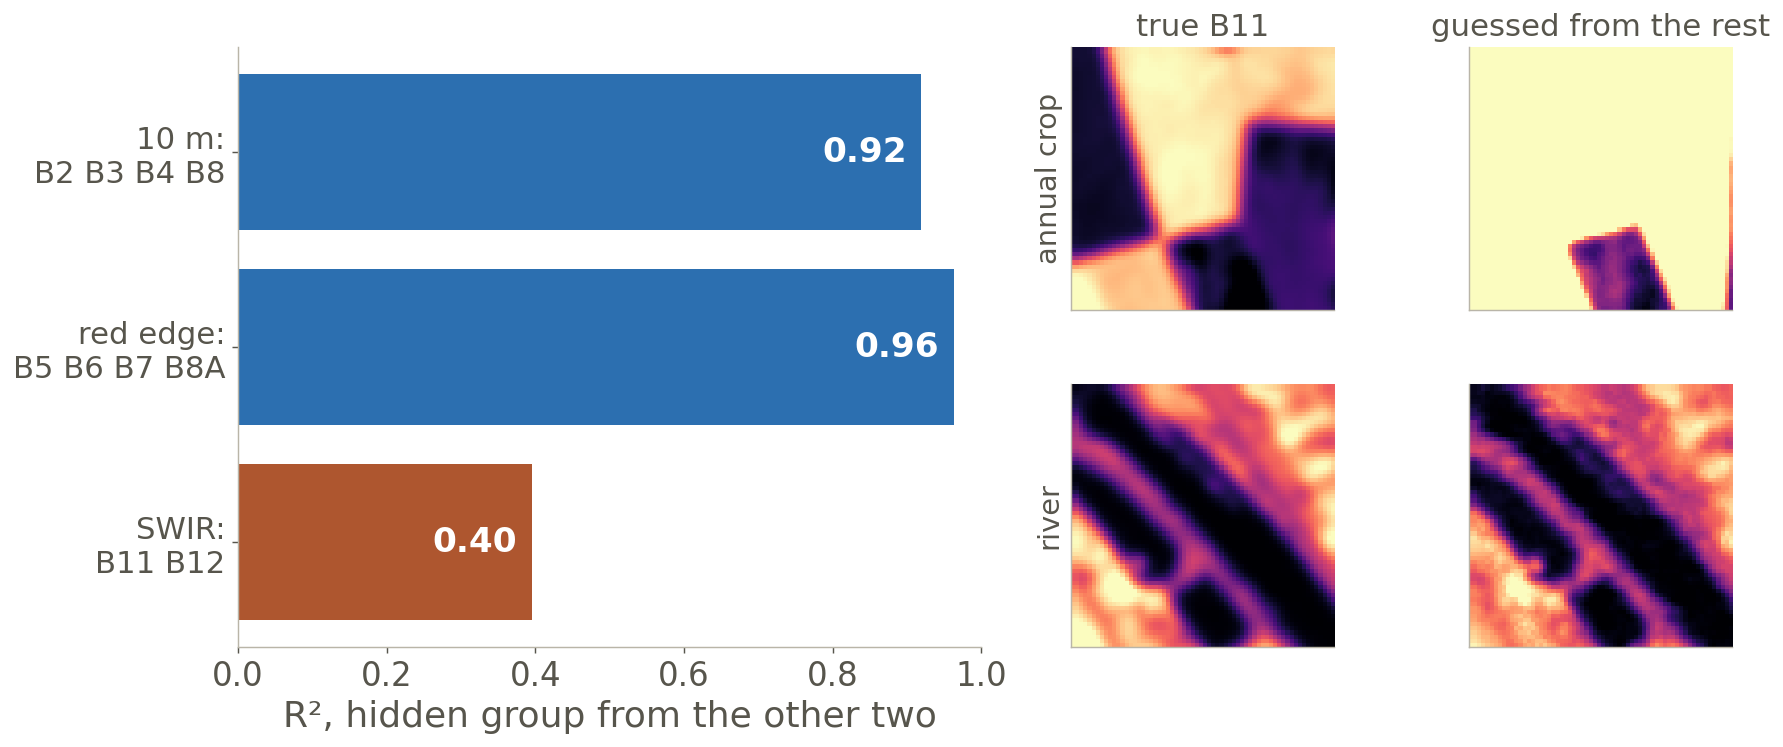
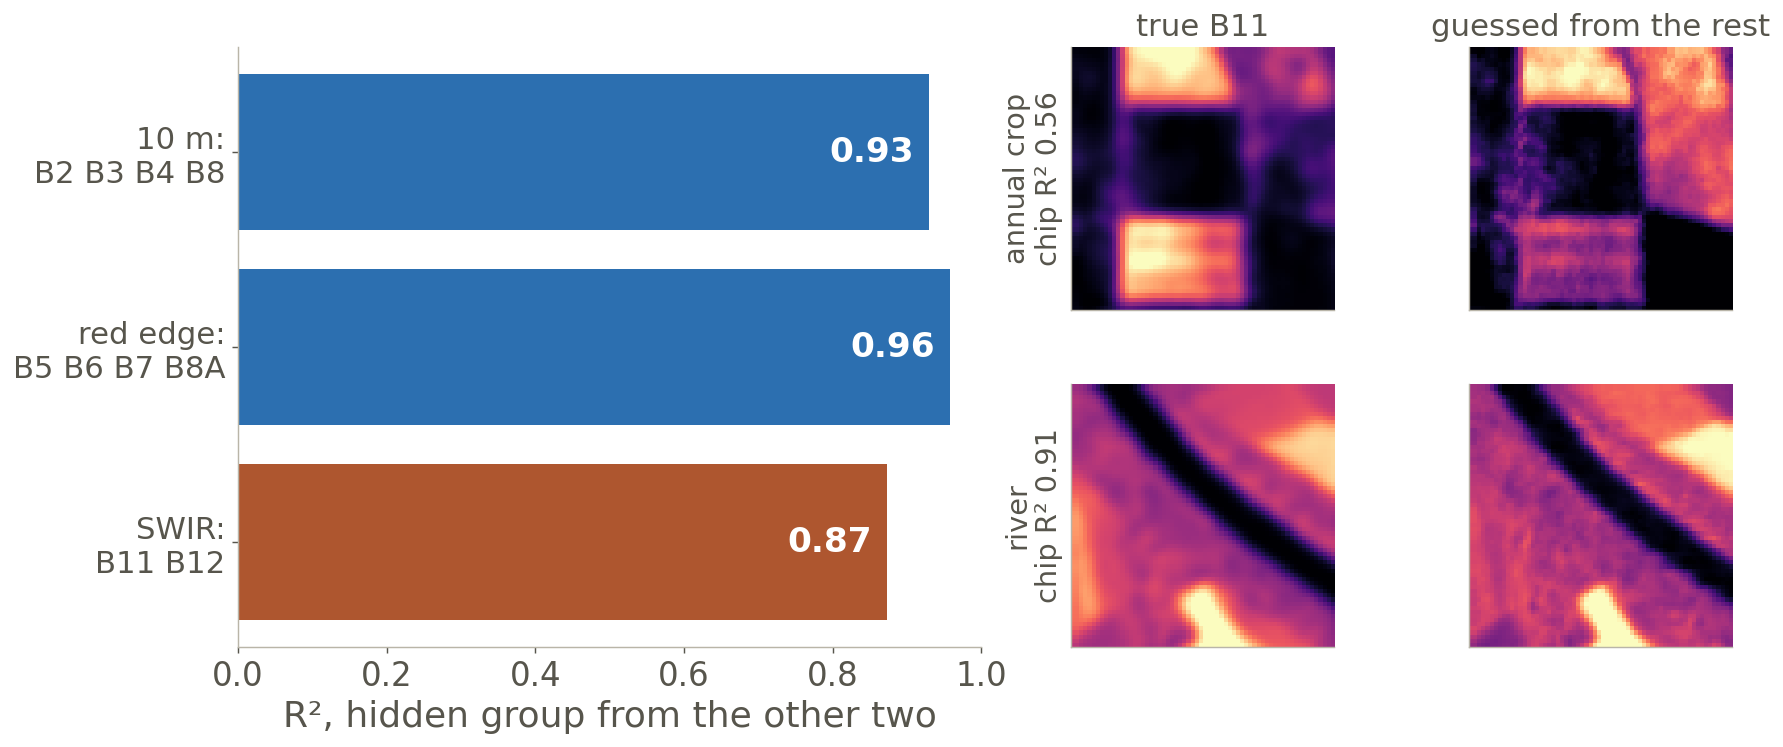
Week 7 deck: band-group and soil-moisture slides restated with measured results
- Band groups (slide 36, fig-w7-spectral.png): redone on all pixels of the
  4,000 training and 1,000 test chips; R^2 0.93 (10 m), 0.96 (red edge),
  0.87 (shortwave infrared), SWIR hardest within annual crop, forest and
  pasture (0.58-0.63); the 10-chip pilot's 0.40 was a small-sample artefact
  (notes); moisture stays a hypothesis for where the residual is largest.
  Figure regenerated from the full sample (class-median test chips on the
  right)
- Soil moisture (slide 8): the dashed sketch replaced by the measured curve,
  ERA5 top-layer soil moisture at 0.25 deg with the same fill and 8 x 8
  patches (0.52 / 0.53 / 0.57 / 0.66 / 0.87 at 10-90 % hidden, against
  0.54 / 0.56 / 0.61 / 0.73 / 0.95 for EuroSAT); title, lead sentence,
  panel labels, notes and foot reworded to say what was measured; no
  remaining claim that random patches on soil moisture are solved by
  interpolation

diff --git a/slides/week07.html b/slides/week07.html
@@ -318,10 +318,10 @@
 
 <section class="slide xl">
   <p class="kicker">Part 2 · Your field · 2 min</p>
-  <h2>Soil moisture is smoother than any EuroSAT chip — so mask more? No: mask differently</h2>
-  <p class="small" style="margin:-1.6vh 0 1.4vh;color:var(--ink-2);line-height:1.45">At 9–36 km soil moisture is interpolation-friendly: random patches teach copying. The information is in time and in the drivers.</p>
+  <h2>Soil moisture at 0.25° is only a little easier to fill than EuroSAT — measure before you mask</h2>
+  <p class="small" style="margin:-1.6vh 0 1.4vh;color:var(--ink-2);line-height:1.45">Measured with the same fill and 8 × 8 patches, ERA5 soil moisture at 0.25° fills only a little better than a EuroSAT chip: 0.66 against 0.73 at 75% hidden.</p>
   <div class="figure" style="flex:0 0 auto;margin:0 0 .4vh">
-    <svg viewBox="0 0 900 250" role="img" aria-label="Left: the no-learning fill error against the share of patches hidden. The measured EuroSAT curve rises from 0.54 at 10% to 0.73 at 75% and 0.95 at 90%; the tiny MAE sits near 0.30 until 50%, 0.40 at 75%, 0.78 at 90%; a dashed sketch for a 36-kilometre soil-moisture field stays far lower until about 90%, labelled not measured yet. Right: four boxes — block masking, temporal masking, variable masking, forecast target — each naming the models that use it." style="width:min(98%,1150px)">
+    <svg viewBox="0 0 900 250" role="img" aria-label="Left: the no-learning fill error against the share of patches hidden. The measured EuroSAT curve rises from 0.54 at 10% to 0.73 at 75% and 0.95 at 90%; the tiny MAE sits near 0.30 until 50%, 0.40 at 75%, 0.78 at 90%; ERA5 top-layer soil moisture at 0.25°, measured with the same fill and 8 by 8 patches, runs just below the EuroSAT curve: 0.52 at 10%, 0.66 at 75%, 0.87 at 90%. Right: four boxes — block masking, temporal masking, variable masking, forecast target — each naming the models that use it." style="width:min(98%,1150px)">
       <text x="60" y="12" font-size="10.5" fill="var(--muted)" font-weight="700">no-learning fill error (NMSE) vs share hidden</text>
       <line x1="60" y1="20" x2="400" y2="20" stroke="var(--muted)" stroke-width="1" stroke-dasharray="4 3"/><text x="398" y="16" font-size="9" fill="var(--muted)" text-anchor="end">paint the mean = 1.0</text>
       <line x1="60" y1="200" x2="400" y2="200" stroke="currentColor" stroke-width="1"/><line x1="60" y1="20" x2="60" y2="200" stroke="currentColor" stroke-width="1"/>
@@ -329,10 +329,10 @@
       <g font-size="9" fill="var(--muted)" text-anchor="end"><text x="55" y="203">0</text><text x="55" y="113">0.5</text><text x="55" y="24">1</text></g>
       <polyline points="94.0,102.8 145.0,99.2 230.0,90.2 315.0,68.6 366.0,29.0" fill="none" stroke="currentColor" stroke-width="1.6"/><circle cx="94.0" cy="102.8" r="3" fill="currentColor"/><circle cx="145.0" cy="99.2" r="3" fill="currentColor"/><circle cx="230.0" cy="90.2" r="3" fill="currentColor"/><circle cx="315.0" cy="68.6" r="3" fill="currentColor"/><circle cx="366.0" cy="29.0" r="3" fill="currentColor"/>
       <polyline points="94.0,146.0 145.0,146.0 230.0,146.0 315.0,128.0 366.0,59.6" fill="none" stroke="#2c6fb0" stroke-width="1.6"/><circle cx="94.0" cy="146.0" r="3" fill="#2c6fb0"/><circle cx="145.0" cy="146.0" r="3" fill="#2c6fb0"/><circle cx="230.0" cy="146.0" r="3" fill="#2c6fb0"/><circle cx="315.0" cy="128.0" r="3" fill="#2c6fb0"/><circle cx="366.0" cy="59.6" r="3" fill="#2c6fb0"/>
-      <polyline points="94.0,173.0 145.0,169.4 230.0,160.4 315.0,137.0 366.0,74.0" fill="none" stroke="var(--accent)" stroke-width="1.6" stroke-dasharray="5 3"/>
+      <polyline points="94.0,107.2 145.0,105.0 230.0,96.9 315.0,81.2 366.0,43.4" fill="none" stroke="var(--accent)" stroke-width="1.6"/><circle cx="94.0" cy="107.2" r="3" fill="var(--accent)"/><circle cx="145.0" cy="105.0" r="3" fill="var(--accent)"/><circle cx="230.0" cy="96.9" r="3" fill="var(--accent)"/><circle cx="315.0" cy="81.2" r="3" fill="var(--accent)"/><circle cx="366.0" cy="43.4" r="3" fill="var(--accent)"/>
       <text x="96" y="80" font-size="9.5" fill="currentColor">EuroSAT fill, measured (slide 7)</text>
-      <text x="150" y="140" font-size="9.5" fill="#2c6fb0">tiny MAE on EuroSAT</text>
-      <text x="96" y="190" font-size="9.5" fill="var(--accent)" font-weight="700">soil moisture at 36 km? a sketch — nobody has measured it</text>
+      <text x="150" y="164" font-size="9.5" fill="#2c6fb0">tiny MAE on EuroSAT</text>
+      <text x="96" y="124" font-size="9.5" fill="var(--accent)" font-weight="700">ERA5 soil moisture, 0.25°, measured</text><text x="96" y="137" font-size="9" fill="var(--accent)">8 × 8 patches ≈ 200 km</text>
       <text x="440" y="12" font-size="10.5" fill="var(--muted)" font-weight="700">mask differently — what the field’s models do</text>
       <g stroke="var(--accent)" stroke-width="1.2" fill="var(--wash)"><rect x="440" y="20" width="222" height="86" rx="6"/><rect x="670" y="20" width="222" height="86" rx="6"/><rect x="440" y="116" width="222" height="86" rx="6"/><rect x="670" y="116" width="222" height="86" rx="6"/></g>
       <g font-size="11" font-weight="700" fill="var(--accent)"><text x="450" y="38">Block masking</text><text x="680" y="38">Temporal masking</text><text x="450" y="134">Variable masking</text><text x="680" y="134">Forecast target</text></g>
@@ -340,16 +340,16 @@
         <text x="450" y="54">one big hole instead of scattered patches:</text><text x="450" y="66">interpolation cannot fill it</text><text x="450" y="82" fill="var(--muted)">I-JEPA · Galileo (long-span masks)</text>
         <text x="680" y="54">hide whole dates; predict the drydown</text><text x="680" y="66">from the rest of the time series</text><text x="680" y="82" fill="var(--muted)">SatMAE · masked lookback, J. Hydrol. 2025</text>
         <text x="450" y="150">hide soil moisture, keep rain, air</text><text x="450" y="162">temperature, NDVI — learn the water balance</text><text x="450" y="178" fill="var(--muted)">KG-VSF driver → response · OlmoEarth</text>
-        <text x="680" y="150">half of today + yesterday → tomorrow;</text><text x="680" y="162">reconstruction alone is too easy</text><text x="680" y="178" fill="var(--muted)">Prithvi-WxC: 50% masked + Δt</text>
+        <text x="680" y="150">half of today + yesterday → tomorrow;</text><text x="680" y="162">masked reconstruction plus a forecast</text><text x="680" y="178" fill="var(--muted)">Prithvi-WxC: 50% masked + Δt</text>
       </g>
-      <text x="440" y="224" font-size="9.5" fill="var(--muted)">ratio follows redundancy — images 75%, video 90% (Feichtenhofer et al. 2022)</text><text x="440" y="238" font-size="9.5" fill="var(--muted)">scale matters — 36 km is smooth, 30 m SMAP-HydroBlocks is not: measure before choosing</text>
+      <text x="440" y="224" font-size="9.5" fill="var(--muted)">ratio follows redundancy — images 75%, video 90% (Feichtenhofer et al. 2022)</text><text x="440" y="238" font-size="9.5" fill="var(--muted)">scale: measure the curve for your own data and patch size before choosing a mask</text>
     </svg>
   </div>
   <div class="gloss">
     <span><b>redundancy</b> — how well a hidden value is predicted by its neighbours. <b>block mask</b> — one contiguous hidden region instead of scattered patches.</span>
   </div>
-  <div class="foot"><span>Evidence: video MAE optimum 90% (Feichtenhofer 2022) · Enki rebuilds SST with most pixels hidden (Prochaska 2023) · Baguan: plain MAE can hurt a forecaster (2025) · StefaLand masks attribute/time-series tokens (2025) · ST-Transformer: self-supervised SMAP 1 km imputation, no ratio study (2023) · IGARSS 2026: Prithvi ≈ hand-crafted on 113 ISMN sites · test the target: physical units beat anomalies in an S2S ViT (arXiv 2610.07060) · the dashed curve is an unwritten paper</span></div>
-  <aside class="notes">2 min, the previous slide applied to the field most of you work in. Left: the EuroSAT fill curve you just saw, and a dashed sketch of what a 36-kilometre soil-moisture map would do — stay low until nearly everything is hidden, because the field is smooth. Nobody has measured that curve; say so, it is a paper. If it looks like the sketch, random patches at 75% teach a model to copy its neighbours, and more masking only pushes it towards painting the climatology. Right: what the field's models did instead — block masks that interpolation cannot fill (I-JEPA, Galileo), hiding dates so the model learns the drydown (SatMAE, the J. Hydrol. 2025 masked lookback), hiding the variable so it learns the water balance from rain and temperature (KG-VSF, OlmoEarth), and Prithvi-WxC's answer for smooth atmospheric fields: 50% masked plus a forecast target. Two cautions: scale — 36 km is smooth, 30 m SMAP-HydroBlocks is not, so measure before choosing; and the target — an S2S soil-moisture ViT found physical units beat standardised anomalies, so even the obvious anomaly target has to be tested. The bullets are the evidence next door and at home; the honest one is IGARSS 2026, Prithvi embeddings adding nothing on 113 stations — exactly the kind of result the capstone rubric rewards. This slide is a Talk 2/3 question: what does your field's curve look like, and which mask follows?</aside>
+  <div class="foot"><span>Evidence: video MAE optimum 90% (Feichtenhofer 2022) · Enki rebuilds SST with most pixels hidden (Prochaska 2023) · Baguan: plain MAE can hurt a forecaster (2025) · StefaLand masks attribute/time-series tokens (2025) · ST-Transformer: self-supervised SMAP 1 km imputation, no ratio study (2023) · IGARSS 2026: Prithvi ≈ hand-crafted on 113 ISMN sites · test the target: physical units beat anomalies in an S2S ViT (arXiv 2610.07060) · soil moisture: ERA5 top layer, 0.25°, 288 fields of 2020, computed for this lecture</span></div>
+  <aside class="notes">2 min, the previous slide applied to the field most of you work in. Left: the EuroSAT fill curve you just saw, and the same no-learning fill measured on ERA5 top-layer soil moisture at 0.25° — 12 all-land windows of 64 × 64 cells, 24 dates of 2020, 288 fields, the same 8 × 8 patches and mask ratios. It runs only a little below EuroSAT: 0.52, 0.53, 0.57, 0.66 and 0.87 at 10, 25, 50, 75 and 90% hidden, against 0.54, 0.56, 0.61, 0.73 and 0.95. Cells one patch apart (8 cells) correlate at 0.45 in the soil-moisture windows and 0.40 in the chips. So at this patch size soil moisture is only modestly more redundant than EuroSAT: redundancy depends on the patch size relative to the correlation length — an 8-cell patch at 0.25° is about 200 km — not on the grid being coarse. It also varies from place to place: the window means at 75% range from 0.32 to 0.93. The supported message is the measurement itself: measure the curve for your own data and patch size before choosing a mask. Right: the masks the field's models use besides random patches — block masks that interpolation cannot fill (I-JEPA, Galileo), hiding dates so the model learns the drydown (SatMAE, the J. Hydrol. 2025 masked lookback), hiding the variable so it learns the water balance from rain and temperature (KG-VSF, OlmoEarth), and Prithvi-WxC's mixed objective: 50% masked plus a forecast target. Two cautions: scale — redundancy depends on patch size against correlation length, so the same field at another resolution or patch size can give another curve; and the target — an S2S soil-moisture ViT found physical units beat standardised anomalies, so even the obvious anomaly target has to be tested. The bullets are the evidence next door and at home; the honest one is IGARSS 2026, Prithvi embeddings adding nothing on 113 stations — exactly the kind of result the capstone rubric rewards. This slide is a Talk 2/3 question: what does your field's curve look like, and which mask follows?</aside>
 </section>
 
 <!-- 9 -->
@@ -1058,19 +1058,19 @@ for x in loader:
 
 <section class="slide xl">
   <p class="kicker">Skipped on 2 Nov · Earth masks · Hide a band group · measured</p>
-  <h2>In our test, red-edge bands are easy to guess from the rest; shortwave infrared is not</h2>
-  <p class="small" style="margin:-1.6vh 0 1.4vh;color:var(--ink-2);line-height:1.45">A group that is easy to guess makes a weak pretext task; SWIR, which tracks moisture, is the harder one to predict.</p>
+  <h2>In our test, red-edge bands are easy to guess from the rest; shortwave infrared is hardest, at R² 0.87</h2>
+  <p class="small" style="margin:-1.6vh 0 1.4vh;color:var(--ink-2);line-height:1.45">A group that is easy to guess makes a weak pretext task; a straight line recovers most of every group, SWIR least.</p>
   <div class="figure" style="flex:0 0 auto;display:block;margin:0">
-    <img src="img/fig-w7-spectral.png" data-zoom alt="Left: bar chart of R squared when each SatMAE band group is hidden and predicted pixel by pixel from the other two by linear regression on EuroSAT test chips: 10-metre bands 0.92, red-edge bands 0.96, shortwave infrared 0.40. Right: true band B11 versus the guess from the other bands for an annual-crop chip, where the guess fails badly, and a river chip, where it is close." title="Click to enlarge" style="display:block;margin:0 auto;height:35vh;width:auto;max-width:100%">
+    <img src="img/fig-w7-spectral.png" data-zoom alt="Left: bar chart of R squared when each SatMAE band group is hidden and predicted pixel by pixel from the other two by linear regression, fitted on 4,000 EuroSAT training chips and scored on 1,000 test chips: 10-metre bands 0.93, red-edge bands 0.96, shortwave infrared 0.87. Right: true band B11 versus the guess from the other bands for a typical annual-crop test chip, where the guess gets the fields but misjudges their brightness (chip R squared 0.56), and a typical river chip, where it is close (0.91)." title="Click to enlarge" style="display:block;margin:0 auto;height:35vh;width:auto;max-width:100%">
   </div>
   <ul class="small">
-    <li>A straight line recovers red-edge (R² 0.96) but only 0.40 of SWIR on 10 test chips — the crop chip misses whole fields. A pilot, not a verdict: test masks downstream. SatMAE hides 75% of tokens independently in each band group, so the model must “peek” across groups; SpectralGPT hides 90% of 3-D spatial–spectral tokens.</li>
+    <li>A straight line recovers red edge (R² 0.96) and even SWIR (0.87); SWIR is hardest within annual crop, forest and pasture (0.58–0.63). Test masks downstream. SatMAE hides 75% of tokens independently in each band group, so the model must “peek” across groups; SpectralGPT hides 90% of 3-D spatial–spectral tokens.</li>
   </ul>
   <div class="gloss">
     <span><b>R²</b> — share of the hidden values’ variance the guess explains; 1 = perfect, 0 = no better than the average. <b>SWIR</b> — shortwave infrared (B11, B12), sensitive to water in soil and leaves.</span>
   </div>
-  <div class="foot"><span>Computed for this lecture: linear regression per pixel, trained on 30 EuroSAT-MS chips, tested on 10 (tools/week07_deck/figs/fig_spectral.py) · groups as in SatMAE (Cong et al. 2022)</span></div>
-  <aside class="notes">1.5 min. The measurement: hide one of SatMAE's three band groups and predict it, pixel by pixel, from the other two with nothing smarter than a straight line. The 10-metre bands come back at R² 0.92 and the red-edge bands at 0.96 — hiding them asks the model to do almost nothing. SWIR comes back at 0.40: on the annual-crop chip the guess is wrong over whole fields, because SWIR responds to moisture in soil and leaves, which the visible bands do not show. That is the argument for spectral masking: it forces the model to learn the relations between bands. Be careful with the claim: this is a 40-chip pilot with a linear predictor, so it motivates band-group masks rather than proving which mask helps — that has to be tested downstream, and on the river chip SWIR is predicted well (R² ≈ 0.97). The moisture explanation is a hypothesis for the error pattern.</aside>
+  <div class="foot"><span>Computed for this lecture: linear regression per pixel, trained on 4,000 EuroSAT-MS chips, tested on 1,000 (tools/week07_deck/figs/fig_spectral.py) · groups as in SatMAE (Cong et al. 2022)</span></div>
+  <aside class="notes">1.5 min. The measurement: hide one of SatMAE's three band groups and predict it, pixel by pixel, from the other two with nothing smarter than a straight line, fitted on every pixel of the lab's 4,000 training chips and scored on all 1,000 test chips. The 10-metre bands come back at R² 0.93, the red-edge bands at 0.96 and SWIR at 0.87: the hardest group, but most of it is still a linear function of the other bands. By class, SWIR is worst within annual crop (0.58), forest (0.60) and pasture (0.63), then industrial 0.74, residential 0.81, herbaceous vegetation 0.83, and highway, permanent crop and river 0.85; sea and lake scores −1.18 only because R² is measured against each class's own mean and water has almost no SWIR variation to explain. Where the residual is largest — cropland, forest, pasture — a hypothesis, not a result: SWIR responds to moisture in soil and leaves, which the visible bands do not show. In the figure, the typical annual-crop test chip (R² 0.56 within the chip) has its fields in the right places but some at the wrong brightness; the typical river chip is close (0.91). The first version of this slide used a 10-chip pilot (30 training chips) and got 0.40 for SWIR — a small-sample artefact. So the case for spectral masking is weaker than the pilot suggested: a band-group mask on red edge asks almost nothing of the model, on SWIR a little more; whether it helps has to be tested downstream.</aside>
 </section>
 
 <!-- 37 -->
